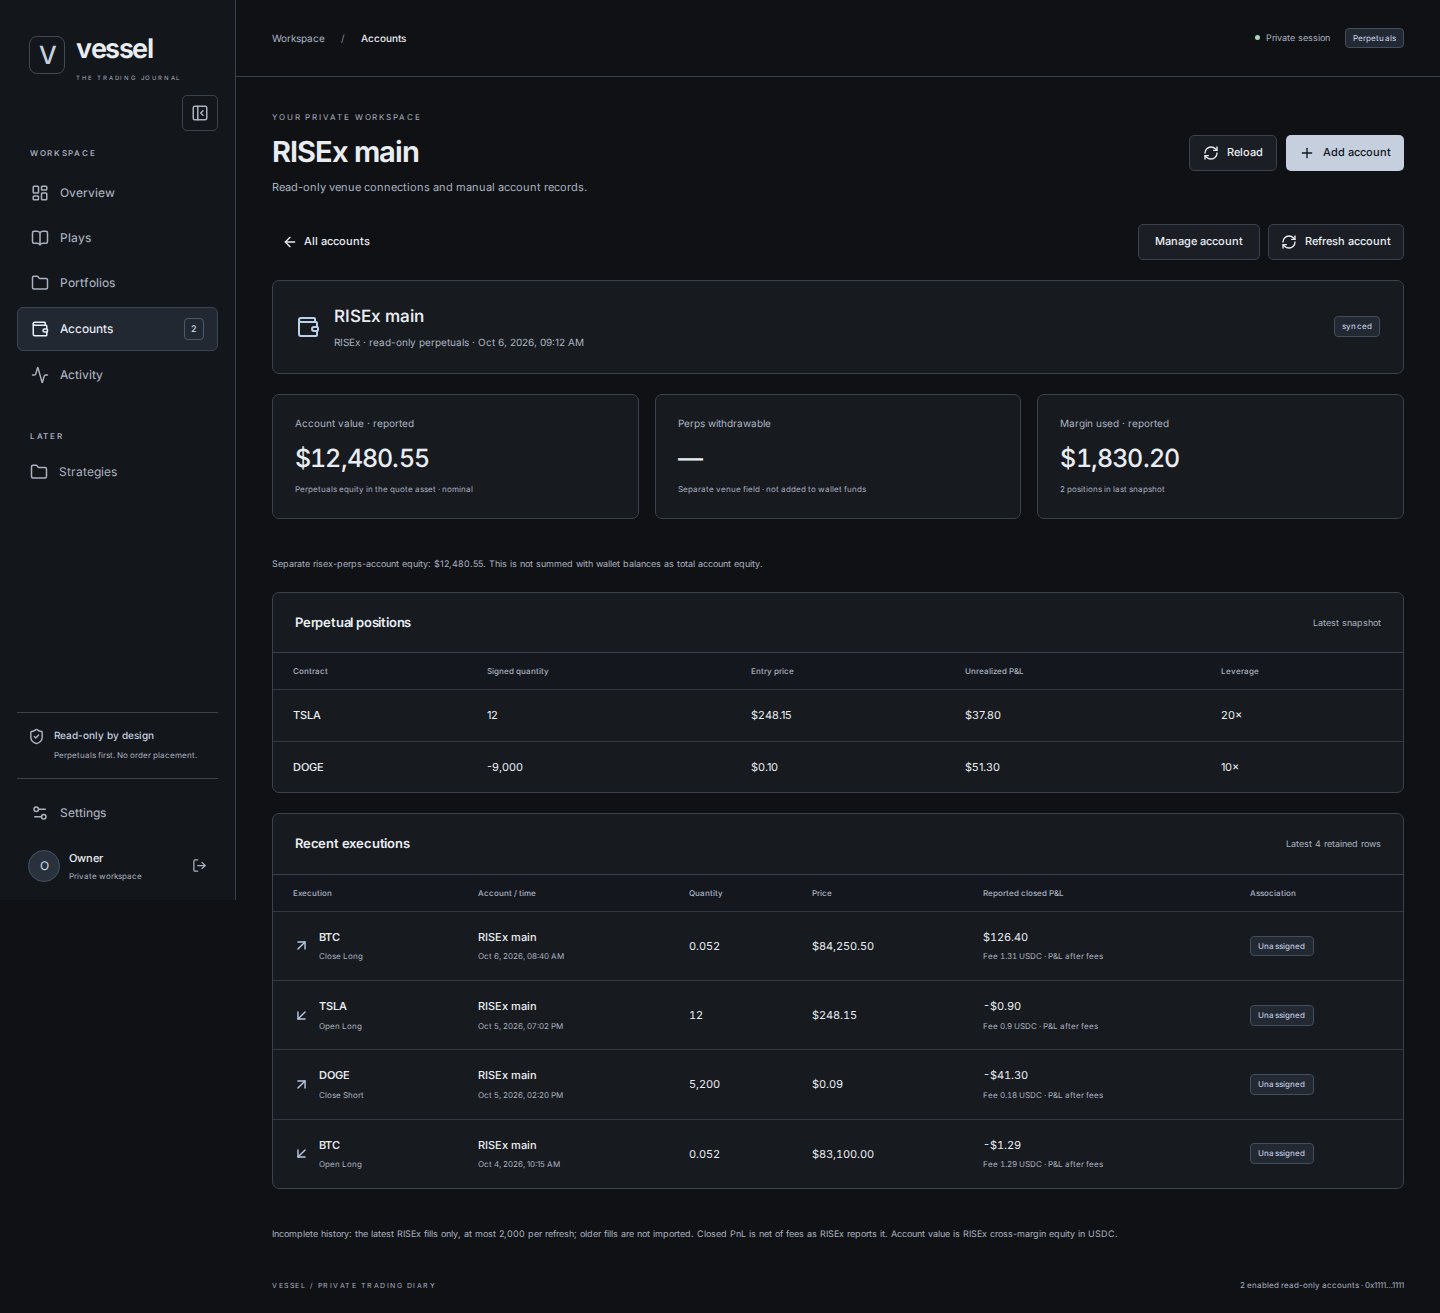
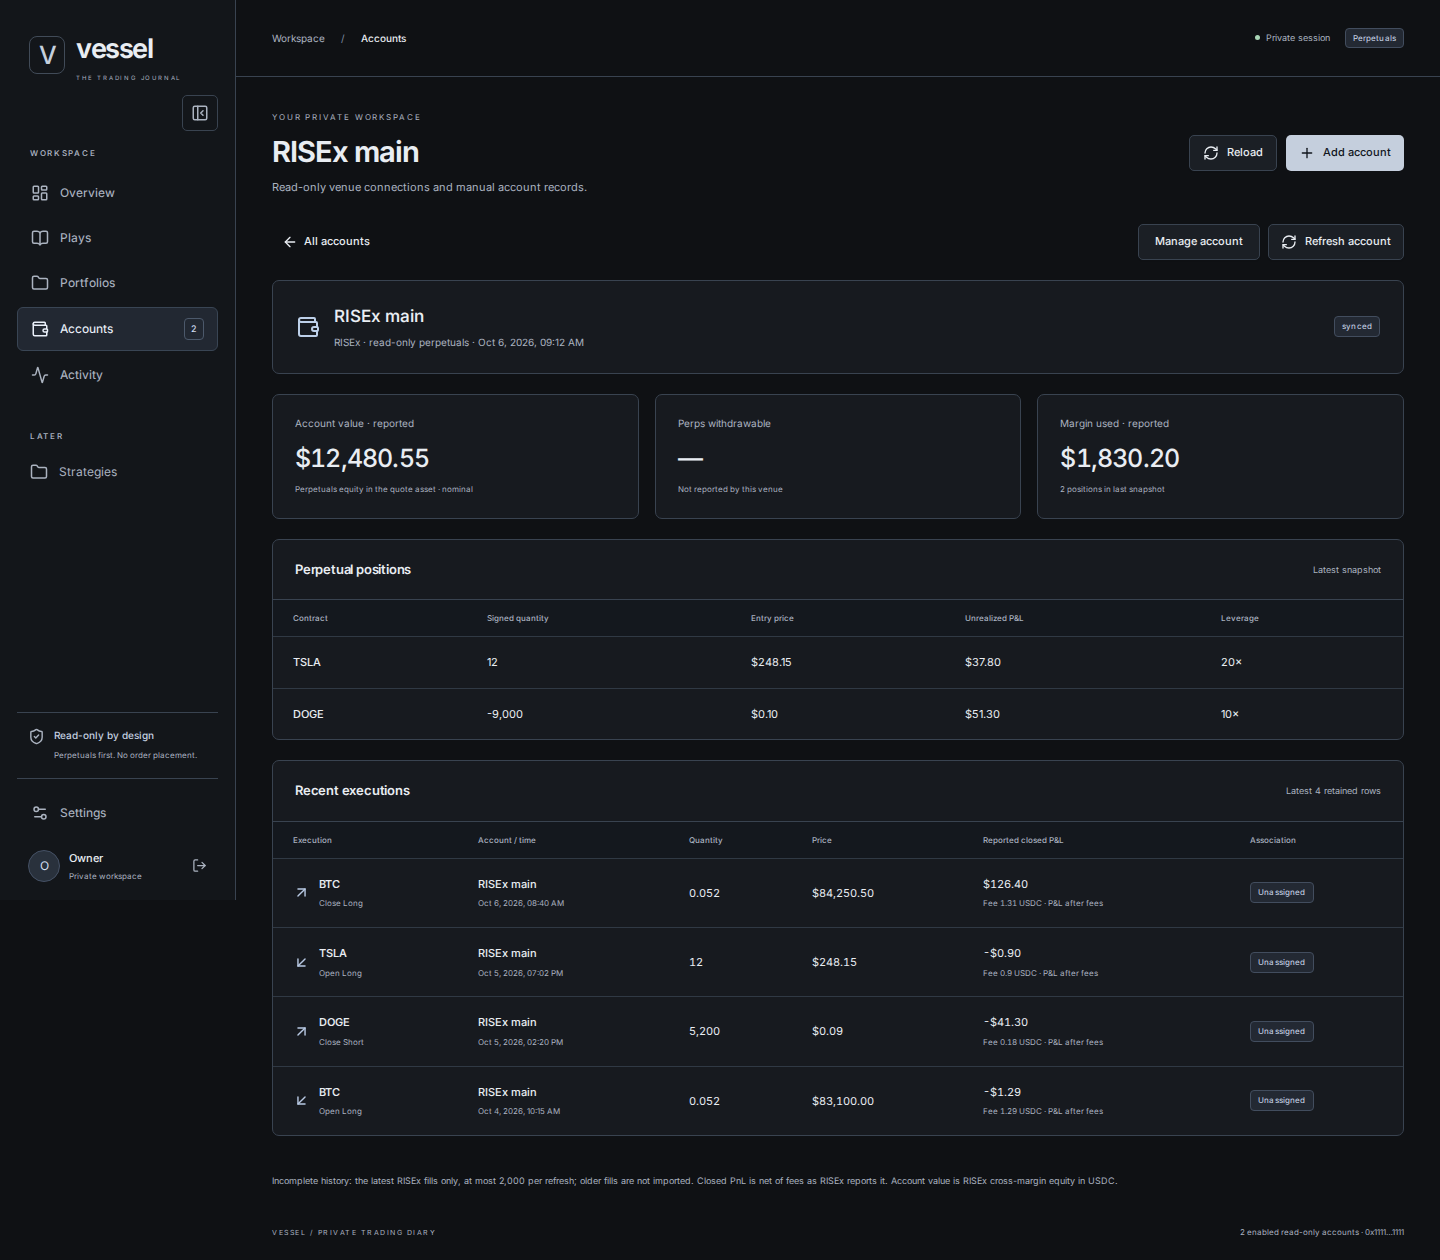
fix: name unreported withdrawable amounts and drop the raw scope ID
The account detail printed the adapter's value scope ID (risex-perps-account) in
its equity note, and labelled an unreported withdrawable amount as a separate
venue field. The note now names the venue and appears only for venues with a
stablecoin wallet, which it is about; an unreported amount says so.

diff --git a/frontend/src/features/workspace/AccountDetail.tsx b/frontend/src/features/workspace/AccountDetail.tsx
@@ -40,7 +40,7 @@ export function AccountDetail({ account, api, refreshing, onSync, onBack, onMana
     {account.isEnabled === false && <div className="workspace-alert" role="status">This account is disabled. Retained imports and positions are hidden and excluded from workspace totals. Use Manage account to enable it again.</div>}
     <div className="workspace-stat-grid three">
       <div className="shell-panel metric"><span>{wallet ? 'Wallet stablecoins available' : synced ? 'Account value · reported' : 'Known manual value'}</span><strong>{money(wallet ? account.availableStablecoinNominalUsd ?? null : account.accountValueUsd)}</strong><small>{account.isEnabled === false ? 'Hidden while disabled' : !wallet ? (synced ? 'Perpetuals equity in the quote asset · nominal' : 'Entered manually') : snapshot?.stablecoinWallet ? `${snapshot.stablecoinWallet.accountMode} · nominal total minus held` : 'Refresh to read the stablecoin wallet'}</small></div>
-      <div className="shell-panel metric"><span>Perps withdrawable</span><strong>{money(snapshot?.withdrawableUsd ?? null)}</strong><small>Separate venue field · not added to wallet funds</small></div>
+      <div className="shell-panel metric"><span>Perps withdrawable</span><strong>{money(snapshot?.withdrawableUsd ?? null)}</strong><small>{snapshot && snapshot.withdrawableUsd === null ? 'Not reported by this venue' : 'Separate venue field · not added to wallet funds'}</small></div>
       <div className="shell-panel metric"><span>Margin used · reported</span><strong>{money(snapshot?.marginUsedUsd ?? null)}</strong><small>{snapshot?.positions.length ?? 0} positions in last snapshot</small></div>
     </div>
     {wallet && <section className="shell-panel"><header className="shell-panel-heading"><div><h2>Stablecoin wallet</h2><p>Supported stablecoins in the venue wallet. Other assets are excluded.</p></div><span className="workspace-badge">{snapshot?.stablecoinWallet?.accountMode ?? 'Not observed'}</span></header>
@@ -48,7 +48,7 @@ export function AccountDetail({ account, api, refreshing, onSync, onBack, onMana
         !snapshot?.stablecoinWallet ? <div className="workspace-empty small-empty"><strong>Stablecoin wallet not retrieved yet</strong><p>Use Refresh account to read it. A prior perpetual snapshot alone does not describe a unified wallet.</p></div> :
         <><div className="workspace-table-wrap"><table className="workspace-table"><thead><tr><th>Stablecoin</th><th>Total token units</th><th>Held token units</th><th>Available token units</th></tr></thead><tbody>{snapshot.stablecoinWallet.balances.map(b => <tr key={b.tokenId}><td><strong>{b.symbol}</strong></td><td>{amount(b.total)}</td><td>{amount(b.held)}</td><td><strong>{amount(b.available)}</strong></td></tr>)}</tbody></table></div><p className="workspace-scope-note in-panel">{snapshot.stablecoinWallet.notice}</p></>}
     </section>}
-    {snapshot && <p className="workspace-scope-note">Separate {snapshot.valueScope} equity: {money(snapshot.accountValueUsd)}. This is not summed with wallet balances as total account equity.</p>}
+    {snapshot && wallet && <p className="workspace-scope-note">Separate {venues.name(account.venueId)} perpetuals equity: {money(snapshot.accountValueUsd)}. This is not summed with wallet balances as total account equity.</p>}
     <section className="shell-panel"><header className="shell-panel-heading"><h2>Perpetual positions</h2><span className="muted">{pending ? 'Loading…' : 'Latest snapshot'}</span></header>
       {account.isEnabled === false ? <div className="workspace-empty small-empty"><strong>Positions hidden while disabled</strong><p>The stored snapshot is retained. Enable the account to read it again.</p></div> : !snapshot?.positions.length ? <div className="workspace-empty small-empty"><strong>{pending ? 'Reading the snapshot…' : 'No positions in the latest snapshot'}</strong><p>{snapshot ? 'These are venue-reported positions, not planned plays.' : 'Refresh a read-only account to get a snapshot. A missing snapshot is not proof of zero exposure.'}</p></div> :
         <div className="workspace-table-wrap"><table className="workspace-table"><thead><tr><th>Contract</th><th>Signed quantity</th><th>Entry price</th><th>Unrealized P&amp;L</th><th>Leverage</th></tr></thead><tbody>{snapshot.positions.map(p => <tr key={p.contractId}><td><strong>{p.contractId}</strong></td><td>{amount(p.signedQuantity)}</td><td>{money(p.entryPrice)}</td><td>{money(p.unrealizedPnlUsd)}</td><td>{p.leverage === null ? '—' : `${p.leverage}×`}</td></tr>)}</tbody></table></div>}

diff --git a/frontend/src/features/workspace/ApplicationShell.test.tsx b/frontend/src/features/workspace/ApplicationShell.test.tsx
@@ -412,6 +412,27 @@ describe('Main application shell', () => {
     expect(screen.getByText('Available token units')).toBeInTheDocument()
     expect(screen.getByText('10.123456')).toBeInTheDocument()
     expect(screen.getByText('Wallet funds, not guaranteed trading margin.')).toBeInTheDocument()
+    expect(screen.getByText(/^Separate Hyperliquid perpetuals equity: \$0\.00\./)).toBeInTheDocument()
+    expect(screen.getByText('Separate venue field · not added to wallet funds')).toBeInTheDocument()
+  })
+  it('names an unreported withdrawable amount and shows no wallet note for a venue without a wallet', async () => {
+    const venue = { ...systemFixture.venues[0]!, id: 'risex', name: 'RISEx', tradeUrlTemplate: 'https://www.rise.trade/trade/{instrument}',
+      priceRule: 'tick-size' as const, capabilities: { ...systemFixture.venues[0]!.capabilities, stream: false, stablecoinWallet: false } }
+    const system = { ...systemFixture, venues: [venue, ...systemFixture.venues] }
+    const risex = { ...accountFixture, venueId: 'risex', address: '0x1111111111111111111111111111111111111111', accountValueUsd: '12480.55',
+      syncStatus: 'synced' as const, lastSyncedAtUtc: '2026-10-06T09:12:00Z' }
+    const client = api({
+      overview: vi.fn().mockResolvedValue({ ...overviewFixture, accounts: [risex] }),
+      snapshot: vi.fn().mockResolvedValue({ observedAtUtc: '2026-10-06T09:12:00Z', valueScope: 'risex-perps-account',
+        accountValueUsd: '12480.55', withdrawableUsd: null, marginUsedUsd: '1830.2', positions: [] }),
+      fills: vi.fn().mockResolvedValue([]),
+    })
+    render(<ApplicationShell system={system} disconnect={vi.fn()} api={client} />)
+    await userEvent.click(await screen.findByRole('button', { name: 'View Main account' }))
+    expect(await screen.findByText('Not reported by this venue')).toBeInTheDocument()
+    expect(screen.getByText('Account value · reported')).toBeInTheDocument()
+    expect(screen.queryByText(/perpetuals equity:/)).not.toBeInTheDocument()
+    expect(screen.queryByText(/risex-perps-account/)).not.toBeInTheDocument()
   })
   it('Reload retries failed detail reads when Overview metadata remains unchanged', async () => {
     const client = api({

diff --git a/docs/design/risex-venue/README.md b/docs/design/risex-venue/README.md
@@ -9,7 +9,7 @@ They show what the RISEx slices (#12 to #17) and the venue-neutral follow-up (#1
 | `overview.png` | RISEx fills in recent activity next to a Hyperliquid wallet; the account list uses the shared wording. |
 | `add-account.png` | The account dialog lists RISEx ("RISEx · read-only perps") and asks for a public address only. |
 | `accounts.png` | RISEx row: "USD · venue-reported account value", not a manual or wallet label. The Hyperliquid row keeps its wallet lines. |
-| `account-detail.png` | Account value, withdrawable shown as "—" (RISEx reports none), margin used, signed positions with leverage, fills with "P&L after fees" (net-of-fee), and the incomplete-history notice. |
+| `account-detail.png` | Account value, withdrawable "—" with "Not reported by this venue", margin used, signed positions with leverage, fills with "P&L after fees" (net-of-fee), and the incomplete-history notice. No raw venue scope ID is shown; the separate-equity note appears only for venues with a stablecoin wallet, named by the venue. |
 | `instrument-picker.png` | Non-crypto markets carry a tag (Stock, Commodity, Index/ETF); the maximum leverage is per market. |
 | `plays-btc-chart.png` | Play on a RISEx contract: no live-updates toggle, a Refresh button and "Updated … UTC"; only RISEx timeframes; 24h change "—" (no previous-day price); trade link "Open BTC/USDC on RISEx". |
 | `plays-stock-chart.png` | A stock market (TSLA) with its own tick (0.05): the suggested target (257) is on the tick. |
